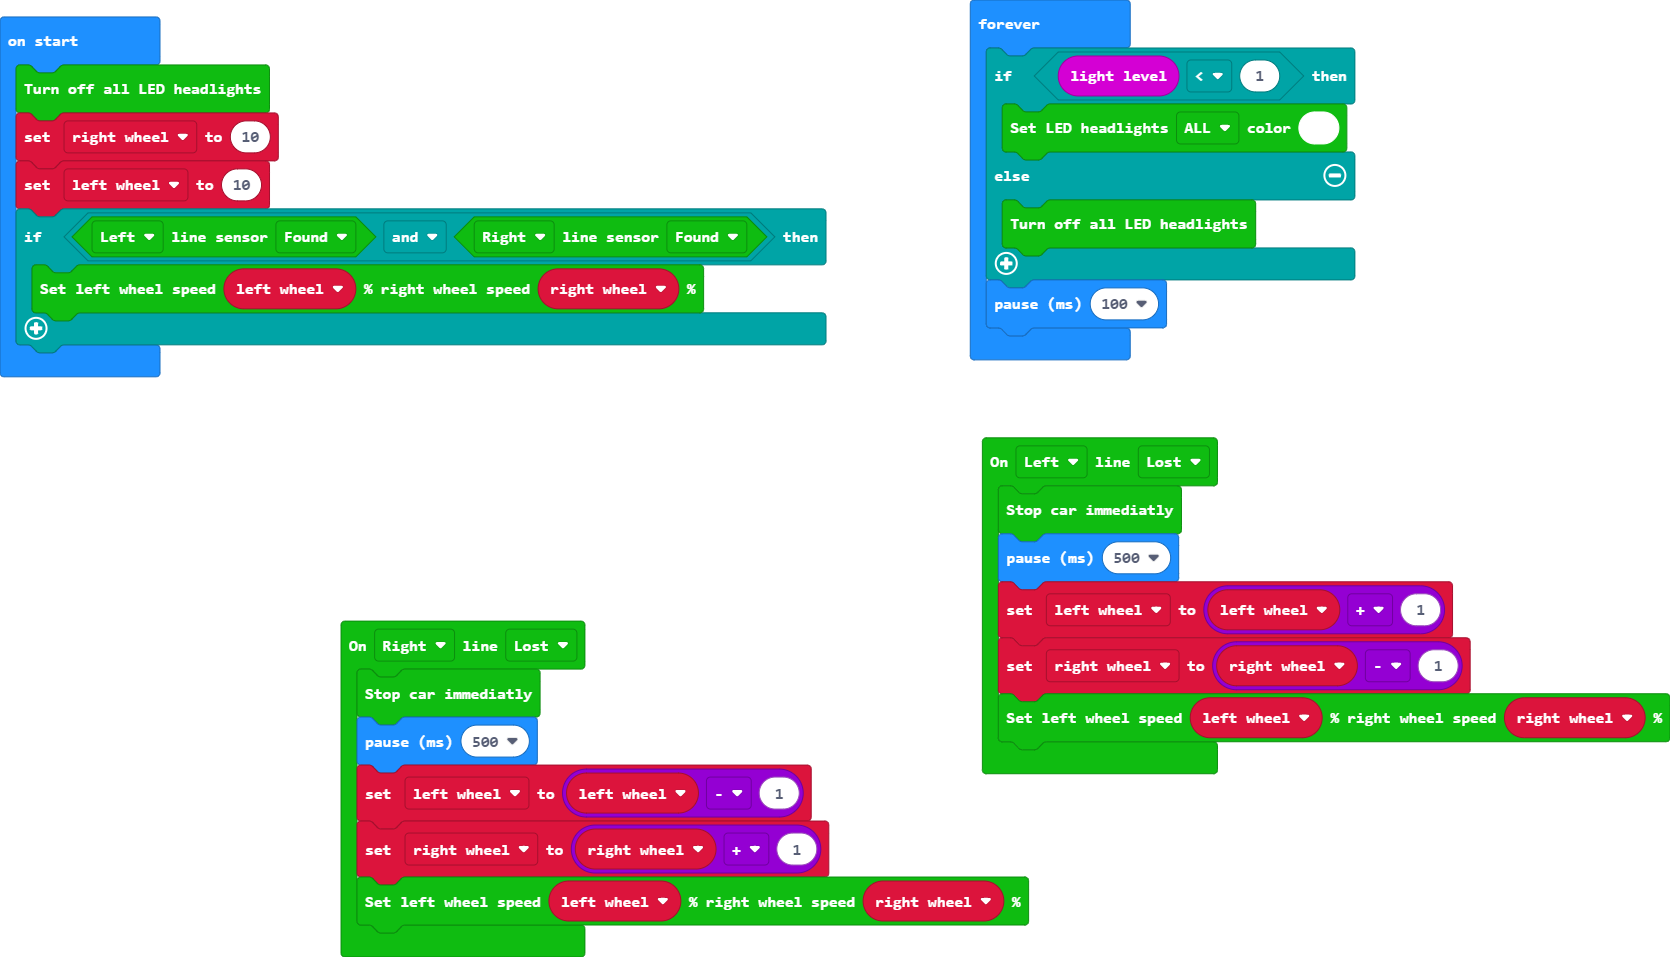
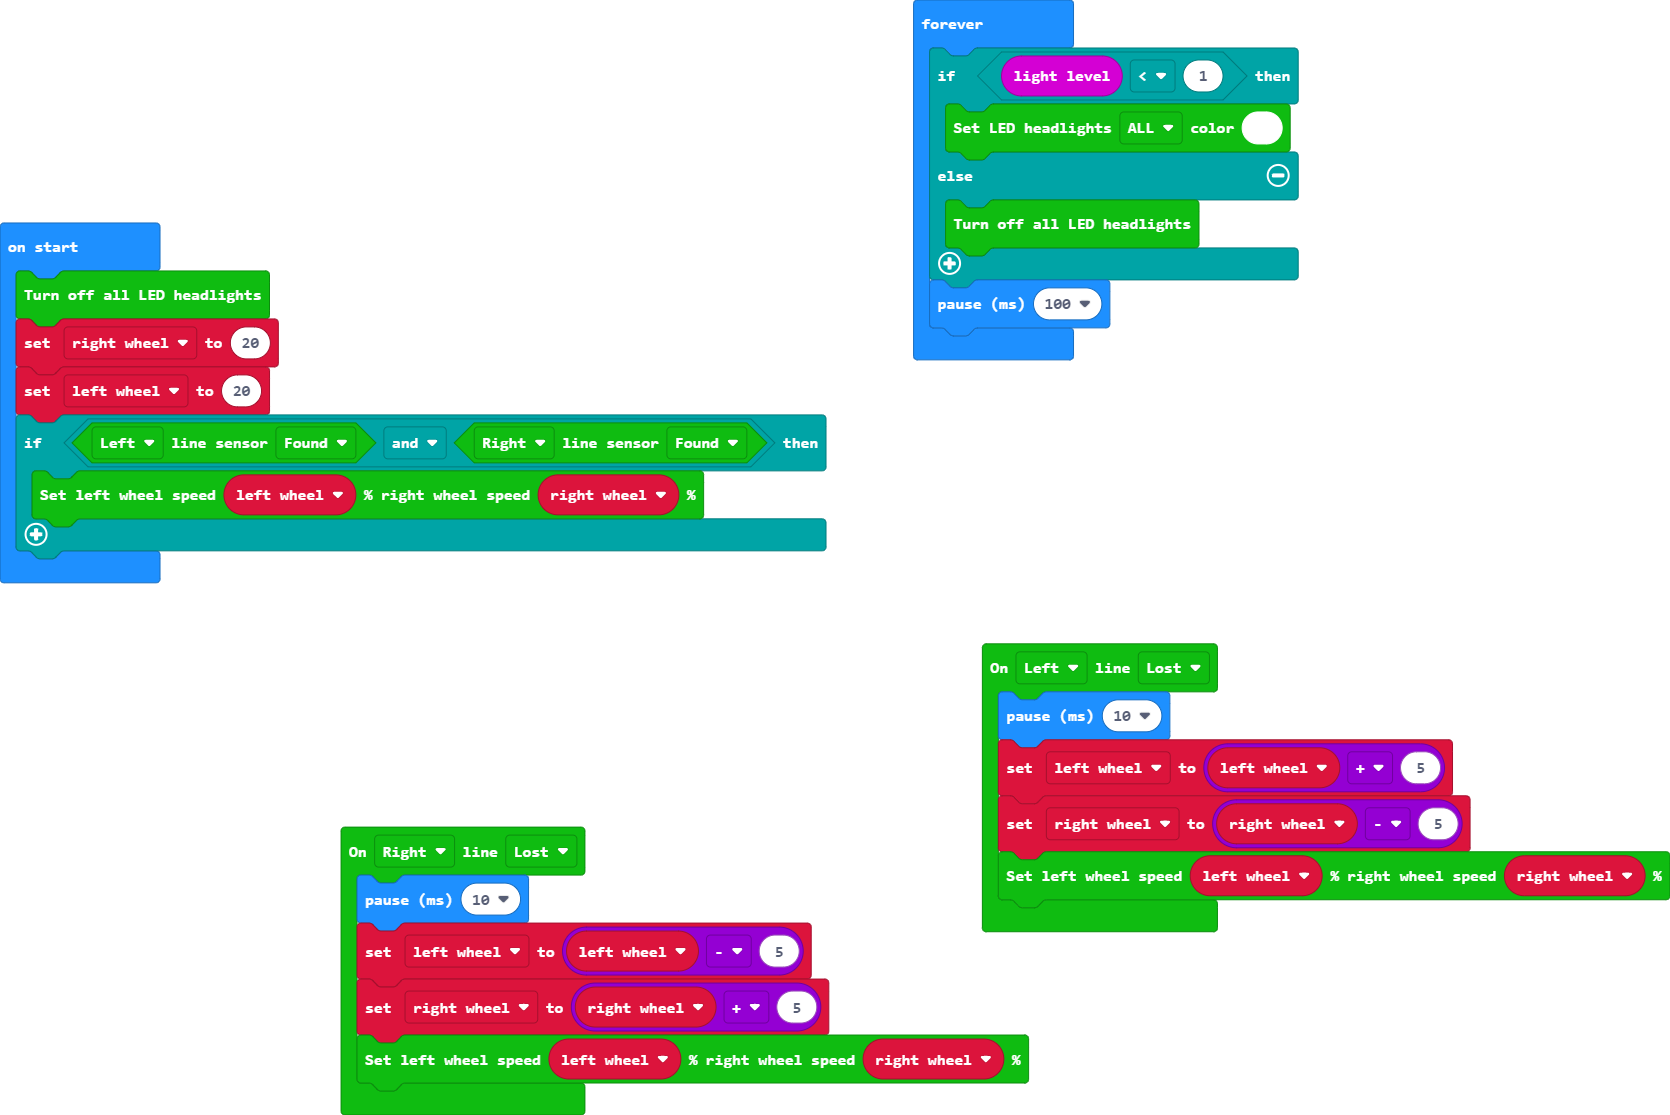
Update main.blocks, main.ts

diff --git a/main.ts b/main.ts
@@ -1,22 +1,20 @@
 cuteBot.trackEvent(cuteBot.MbPins.Right, cuteBot.MbEvents.LoseLine, function () {
-    cuteBot.stopcar()
-    basic.pause(500)
-    left_wheel = left_wheel - 1
-    right_wheel = right_wheel + 1
+    basic.pause(10)
+    left_wheel = left_wheel - 5
+    right_wheel = right_wheel + 5
     cuteBot.motors(left_wheel, right_wheel)
 })
 cuteBot.trackEvent(cuteBot.MbPins.Left, cuteBot.MbEvents.LoseLine, function () {
-    cuteBot.stopcar()
-    basic.pause(500)
-    left_wheel = left_wheel + 1
-    right_wheel = right_wheel - 1
+    basic.pause(10)
+    left_wheel = left_wheel + 5
+    right_wheel = right_wheel - 5
     cuteBot.motors(left_wheel, right_wheel)
 })
 let left_wheel = 0
 let right_wheel = 0
 cuteBot.closeheadlights()
-right_wheel = 10
-left_wheel = 10
+right_wheel = 20
+left_wheel = 20
 if (cuteBot.trackSide(cuteBot.MbPins.Left, cuteBot.MbEvents.FindLine) && cuteBot.trackSide(cuteBot.MbPins.Right, cuteBot.MbEvents.FindLine)) {
     cuteBot.motors(left_wheel, right_wheel)
 }
